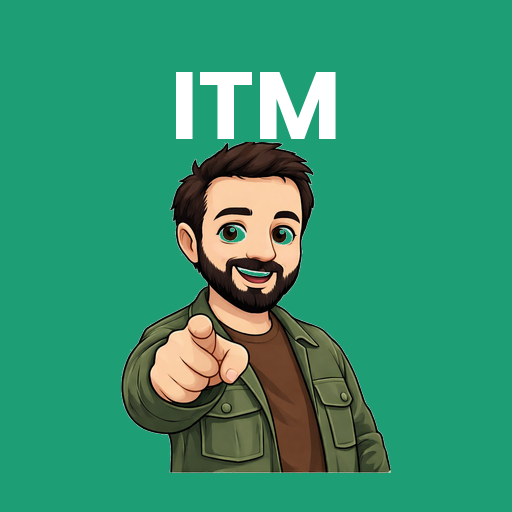
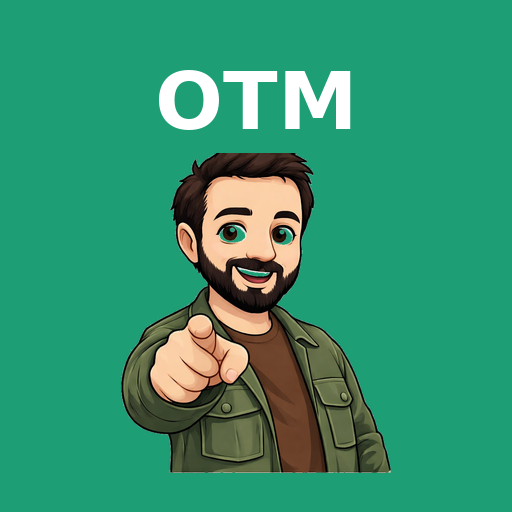
Add files via upload

Changed region(s): [[0.3125, 0.125, 0.6875, 0.3125], [0.4375, 0.4375, 0.4688, 0.4688]]

diff --git a/index.html b/index.html
@@ -4,7 +4,7 @@
 <meta charset="UTF-8">
 <meta name="viewport" content="width=device-width, initial-scale=1.0, maximum-scale=1.0, user-scalable=no">
 <meta name="theme-color" content="#F7F6F2">
-<title>OTM — Outils de Tes Morts</title>
+<title>OTM — Indie Group</title>
 <link rel="preconnect" href="https://fonts.googleapis.com">
 <link rel="preconnect" href="https://fonts.gstatic.com" crossorigin>
 <link href="https://fonts.googleapis.com/css2?family=DM+Sans:wght@400;500;700&family=DM+Mono:wght@400;500&display=swap" rel="stylesheet">
@@ -1585,14 +1585,14 @@
     <button type="button" class="mode-card" id="modeBtnItm">
       <span class="m-ico">📋</span>
       <span>
-        <div class="m-title" style="font-size:24px; letter-spacing:-.5px;">ITM <span style="font-size:13px; letter-spacing:0;">Inventaire de Tes Morts</span></div>
+        <div class="m-title" style="font-size:24px; letter-spacing:-.5px;">ITM <span style="font-size:13px; letter-spacing:0;">Inventaires</span></div>
         <div class="m-desc"><b>Faire un inventaire</b> — compter le stock de l'établissement</div>
       </span>
     </button>
     <button type="button" class="mode-card" id="modeBtnTtm">
       <span class="m-ico">🔁</span>
       <span>
-        <div class="m-title" style="font-size:24px; letter-spacing:-.5px;">TTM <span style="font-size:13px; letter-spacing:0;">Transferts de Tes Morts</span></div>
+        <div class="m-title" style="font-size:24px; letter-spacing:-.5px;">TTM <span style="font-size:13px; letter-spacing:0;">Transferts</span></div>
         <div class="m-desc"><b>Faire un transfert</b> — produits qui partent vers un autre établissement, photo obligatoire</div>
       </span>
     </button>
@@ -1603,7 +1603,7 @@
   <div class="login-box">
     <img src="./mascot.png" alt="ITM" class="login-mascot">
     <div class="login-title">OTM</div>
-    <div style="color:var(--ink-2); font-size:14px; font-weight:600; letter-spacing:.2px; margin:2px 0 14px;">Outils de Tes Morts</div>
+    <div style="color:var(--ink-2); font-size:14px; font-weight:600; letter-spacing:.2px; margin:2px 0 14px;">Indie Group</div>
     <div style="background:var(--surface); border:1px solid var(--border); border-radius:14px; padding:12px 16px; max-width:290px; margin:0 auto 20px; text-align:center;">
       <div style="font-size:12.5px; color:var(--ink-2); line-height:1.5;">La boîte à outils des équipes <b>Indie Group</b></div>
       <div style="display:flex; justify-content:center; gap:14px; margin-top:8px; font-size:12px; color:var(--ink-3);">
@@ -2029,7 +2029,7 @@
 <div id="appData" style="display:none"></div>
 <script id="CATDATA" type="application/json">[]</script>
 <script>
-const APP_VERSION = 'v174';
+const APP_VERSION = 'v177';
 
 /* === ITM APP === */
 (function(){
@@ -2153,7 +2153,7 @@ function showModeScreen() {
   const logoEl = document.querySelector('header .logo');
   const titleEl = document.querySelector('header .h-title');
   if (logoEl) logoEl.textContent = 'OTM';
-  if (titleEl) titleEl.textContent = 'Outils de Tes Morts';
+  if (titleEl) titleEl.textContent = 'Indie Group';
   ttmFetchAttention();   // pastille « X à valider » sur la carte TTM + toast
   const hello = document.getElementById('modeHello');
   if (hello && currentAuth) {
@@ -7890,7 +7890,7 @@ function renderTtm() {
 }
 
 function ttmHeadHtml() {
-  let h = '<div class="ttm-head"><h2>TTM</h2><span class="ttm-sub">Transferts de Tes Morts</span>';
+  let h = '<div class="ttm-head"><h2>TTM</h2><span class="ttm-sub">Transferts entre établissements</span>';
   h += '<button type="button" id="ttmHome" style="margin-left:auto; background:var(--surface); border:1px solid var(--border-strong); border-radius:100px; padding:6px 12px; font-size:12.5px; color:var(--ink-2);">🏠 Menu</button></div>';
   const nAtt = ttmAttentionCount();
   h += '<div class="ttm-tabs">';
@@ -7931,6 +7931,14 @@ async function ttmFetchAttention(force) {
 }
 // Pastille sur la carte TTM du menu d'accueil
 function ttmUpdateModeBadge() {
+  // Badge sur l'ICÔNE de l'app (écran d'accueil) — API Badging des PWA.
+  // Ne peut être posé que quand l'app tourne ; il persiste après fermeture.
+  try {
+    const n0 = ttmAttention.incoming.length + ttmAttention.outgoing.length;
+    if (navigator.setAppBadge) {
+      if (n0 > 0) navigator.setAppBadge(n0); else if (navigator.clearAppBadge) navigator.clearAppBadge();
+    }
+  } catch (e) {}
   const card = document.getElementById('modeBtnTtm');
   if (!card) return;
   let b = document.getElementById('ttmModeBadge');

diff --git a/sw.js b/sw.js
@@ -1,6 +1,6 @@
 // ITM Service Worker — offline-first
 // Change la version à chaque mise à jour du code pour forcer le re-téléchargement
-const CACHE_VERSION = 'itm-v174-pas-entiers';
+const CACHE_VERSION = 'itm-v177-icone-otm';
 const CACHE_NAME = `itm-cache-${CACHE_VERSION}`;
 
 // Ressources à mettre en cache dès l'installation
